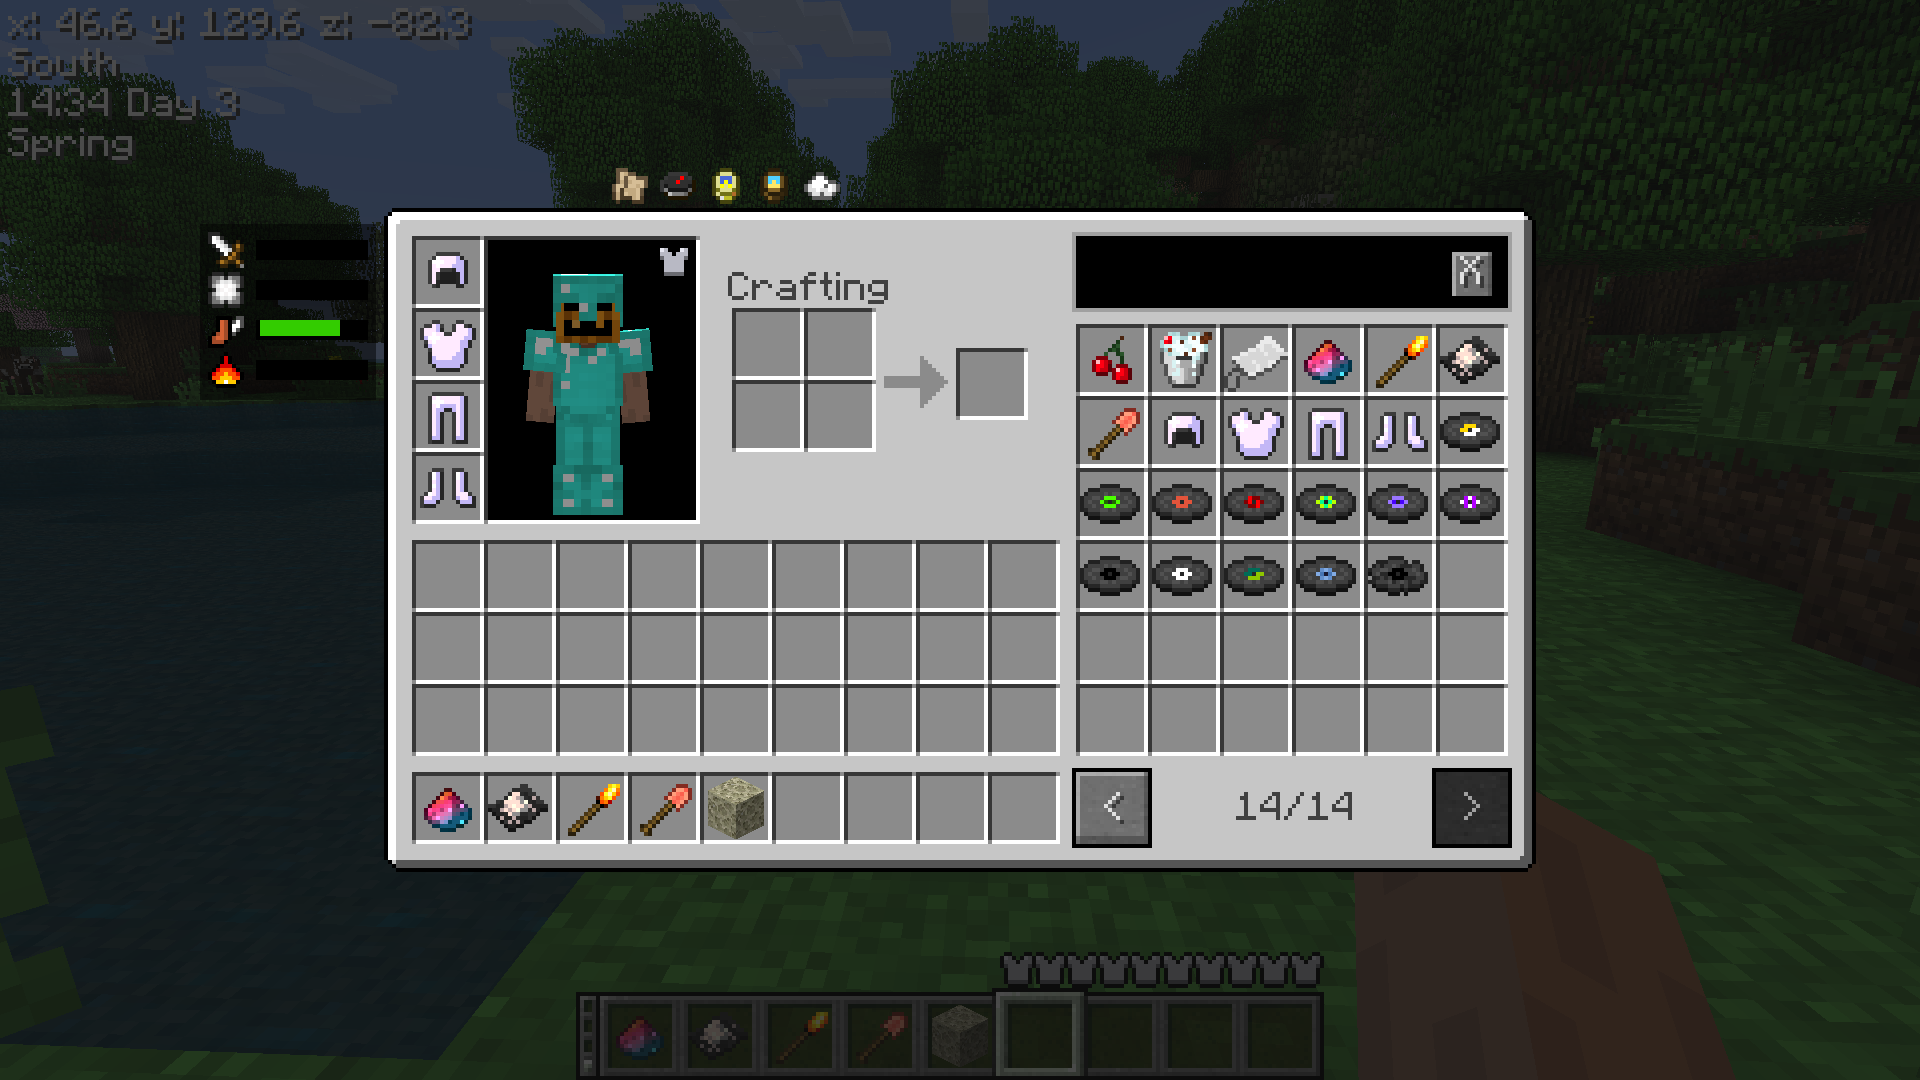
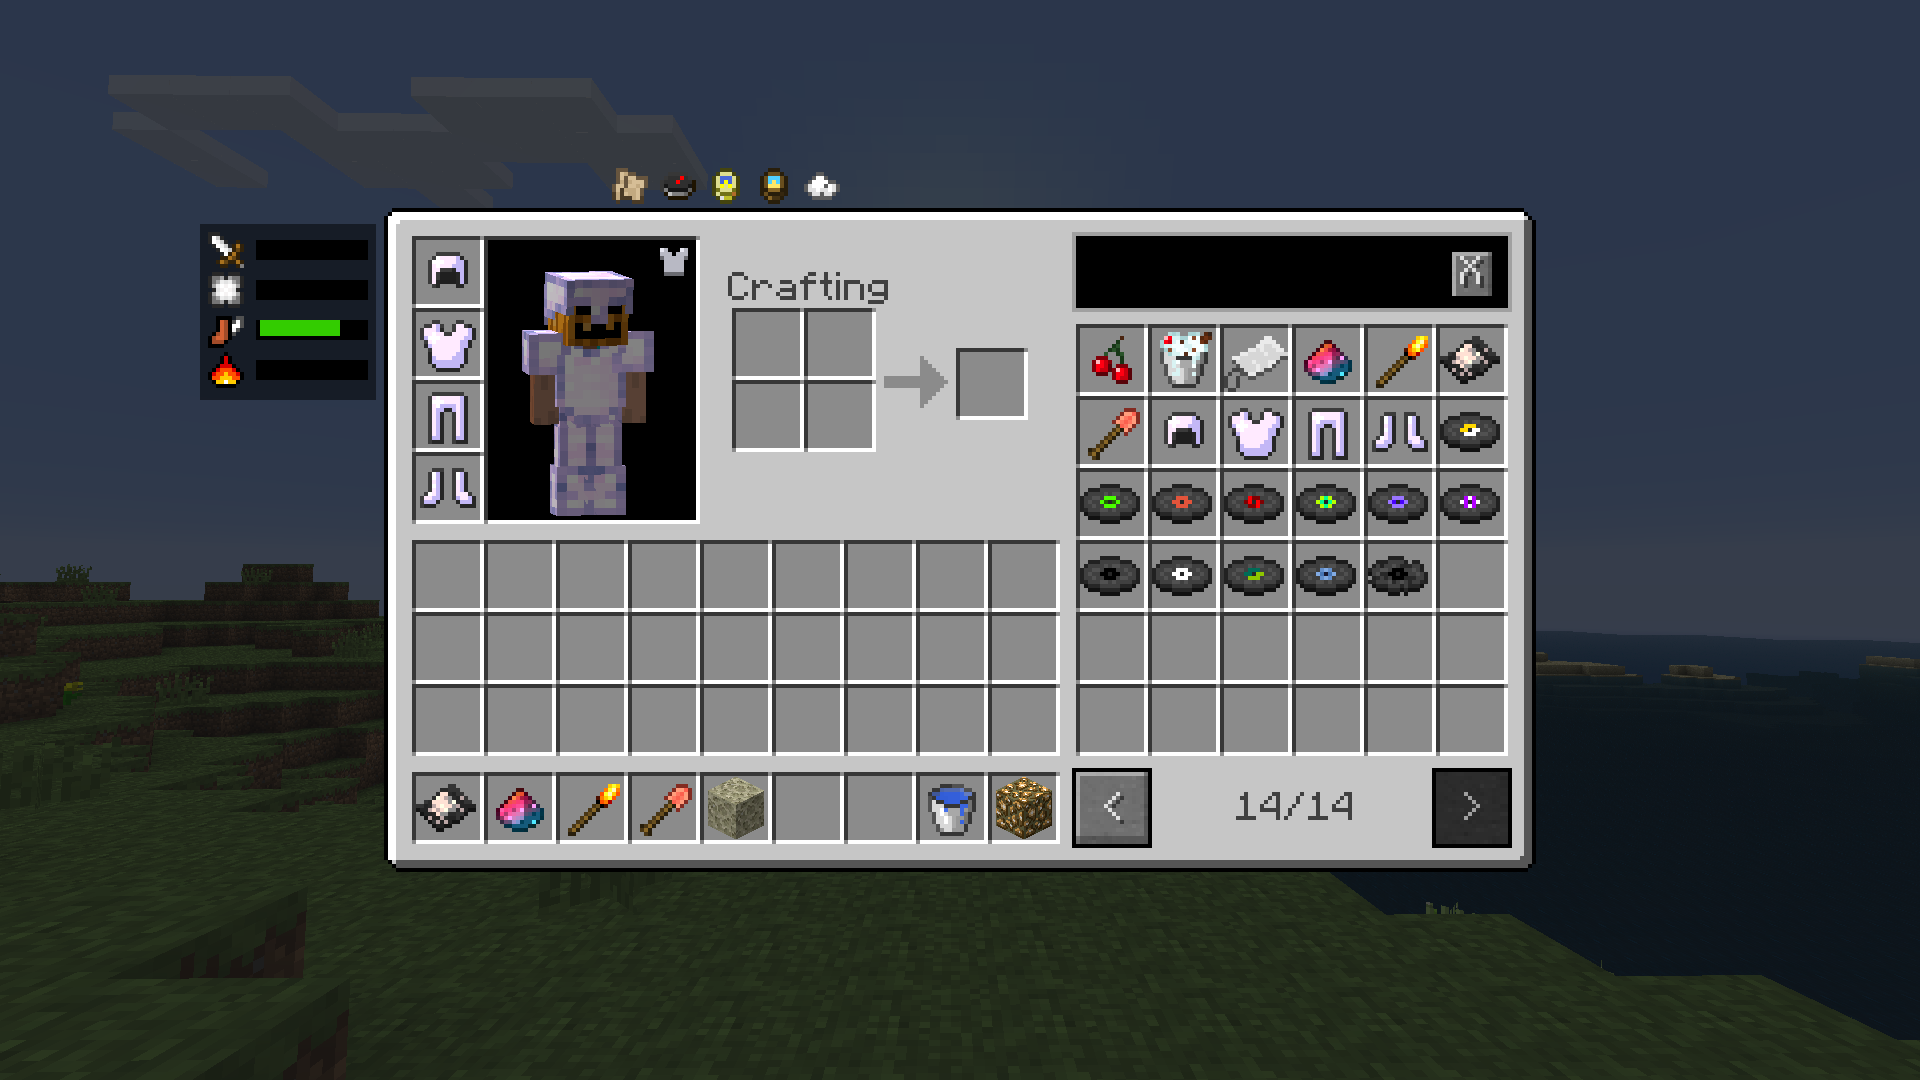
Add armor sprites

diff --git a/src/main/java/azurelmao/examplemod/mixin/RenderPlayerMixin.java b/src/main/java/azurelmao/examplemod/mixin/RenderPlayerMixin.java
@@ -1,0 +1,23 @@
+package azurelmao.examplemod.mixin;
+
+import net.minecraft.src.RenderPlayer;
+import org.apache.commons.lang3.ArrayUtils;
+import org.spongepowered.asm.mixin.Final;
+import org.spongepowered.asm.mixin.Mixin;
+import org.spongepowered.asm.mixin.Mutable;
+import org.spongepowered.asm.mixin.Shadow;
+
+@Mixin(value = RenderPlayer.class, remap = false)
+public class RenderPlayerMixin {
+
+    // Mixin for custom armor sprites
+
+    @Mutable
+    @Final
+    @Shadow
+    private static String[] armorFilenamePrefix;
+
+    static {
+        armorFilenamePrefix = ArrayUtils.add(armorFilenamePrefix, "examplenite");
+    }
+}

diff --git a/src/main/java/azurelmao/examplemod/item/ExampleArmorMaterial.java b/src/main/java/azurelmao/examplemod/item/ExampleArmorMaterial.java
@@ -1,10 +1,10 @@
-package azurelmao.examplemod;
+package azurelmao.examplemod.item;
 
 import net.minecraft.src.helper.DamageType;
 import net.minecraft.src.material.ArmorMaterial;
 
 public class ExampleArmorMaterial {
-    public static final ArmorMaterial exampleArmorMaterial = new ArmorMaterial("examplenite", 3, 1000);
+    public static final ArmorMaterial exampleArmorMaterial = new ArmorMaterial("examplenite", 6, 1000);
     static {
         ArmorMaterial.setProtectionValuePercent(exampleArmorMaterial, DamageType.FALL, 80.0f);
         ArmorMaterial.setProtectionValuePercent(exampleArmorMaterial, DamageType.GENERIC, 200.0f);

diff --git a/src/main/java/azurelmao/examplemod/mixin/BlockFluidStillMixin.java b/src/main/java/azurelmao/examplemod/mixin/BlockFluidStillMixin.java
@@ -10,6 +10,8 @@ import org.spongepowered.asm.mixin.Mixin;
 @Mixin(value = BlockFluidStill.class, remap = false)
 public class BlockFluidStillMixin {
 
+    // We don't need an @Inject annotation here because BlockFluidStill does not implement `onBlockAdded()`
+    // If you wanted to do the same for BlockFire, you would have to use @Inject
     public void onBlockAdded(World world, int i, int j, int k) {
         if (world.getBlockId(i, j - 1, k) == Block.glowstone.blockID) {
             ((BlockPortal) ExampleMod.examplePortalBlock).tryToCreatePortal(world, i, j, k);

diff --git a/src/main/java/azurelmao/examplemod/item/ExampleCustomItem.java b/src/main/java/azurelmao/examplemod/item/ExampleCustomItem.java
@@ -1,4 +1,4 @@
-package azurelmao.examplemod;
+package azurelmao.examplemod.item;
 
 import azurelmao.examplemod.mixin.ExampleAccessor;
 import net.minecraft.client.Minecraft;
@@ -13,6 +13,10 @@ public class ExampleCustomItem extends Item {
     public ExampleCustomItem(int i) {
         super(i);
         this.rand = new Random();
+    }
+
+    public boolean isFull3D() {
+        return true;
     }
 
     @Override

diff --git a/src/main/java/azurelmao/examplemod/mixin/ExampleInvoker.java b/src/main/java/azurelmao/examplemod/mixin/ExampleInvoker.java
@@ -8,6 +8,8 @@ import org.spongepowered.asm.mixin.gen.Invoker;
 @Mixin(value = Block.class, remap = false)
 public interface ExampleInvoker {
 
+    // Invokers are used to call methods which have protected or private access
+
     @Invoker("setHardness")
     Block callSetHardness(float f); // name of method MUST NOT be the same as the method that's being invoked
 

diff --git a/src/main/java/azurelmao/examplemod/mixin/ExampleAccessor.java b/src/main/java/azurelmao/examplemod/mixin/ExampleAccessor.java
@@ -7,6 +7,8 @@ import org.spongepowered.asm.mixin.gen.Accessor;
 @Mixin(value = Minecraft.class, remap = false)
 public interface ExampleAccessor {
 
+    // Accessors are used to get or set fields which have protected or private access
+
     @Accessor("theMinecraft")
     static Minecraft getTheMinecraft() {
         throw new AssertionError();

diff --git a/src/main/java/azurelmao/examplemod/ExampleMod.java b/src/main/java/azurelmao/examplemod/ExampleMod.java
@@ -1,5 +1,8 @@
 package azurelmao.examplemod;
 
+import azurelmao.examplemod.item.ExampleArmorMaterial;
+import azurelmao.examplemod.item.ExampleCustomItem;
+import azurelmao.examplemod.item.ExampleToolMaterial;
 import azurelmao.examplemod.mixin.ExampleInvoker;
 import net.fabricmc.api.ModInitializer;
 import net.minecraft.src.*;

diff --git a/src/main/java/azurelmao/examplemod/item/ExampleToolMaterial.java b/src/main/java/azurelmao/examplemod/item/ExampleToolMaterial.java
@@ -1,4 +1,4 @@
-package azurelmao.examplemod;
+package azurelmao.examplemod.item;
 
 import net.minecraft.src.material.ToolMaterial;
 

diff --git a/README.md b/README.md
@@ -1,7 +1,7 @@
 # BTA Babric Example Mod
 
-A babric mod for BTA with examples for items, blocks, mixins, invokers and accessers.  
-Future plans include entities, portals, dimensions, and custom armor sprites.
+A babric mod for BTA with examples for items, blocks, armor, mixins, invokers and accessers.  
+Future plans include recipes, entities and dimensions.
 
 ## Prerequisites
 - JDK for Java 17 [(Eclipse Temurin](https://adoptium.net/temurin/releases/) recommended)
